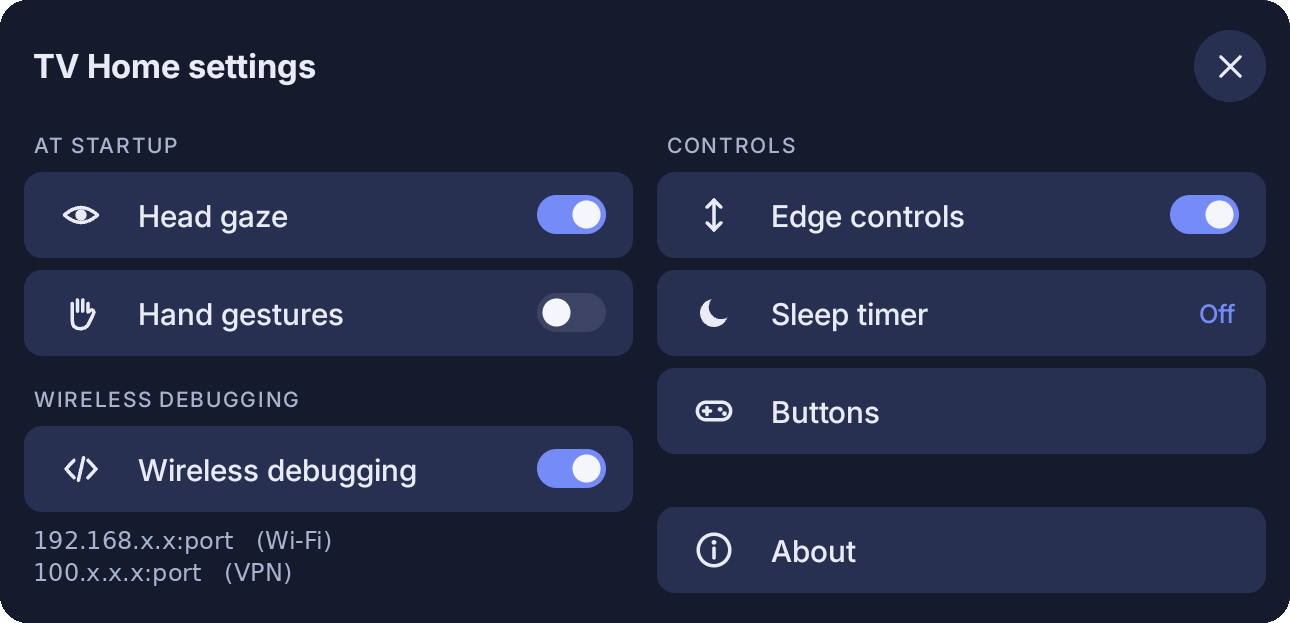
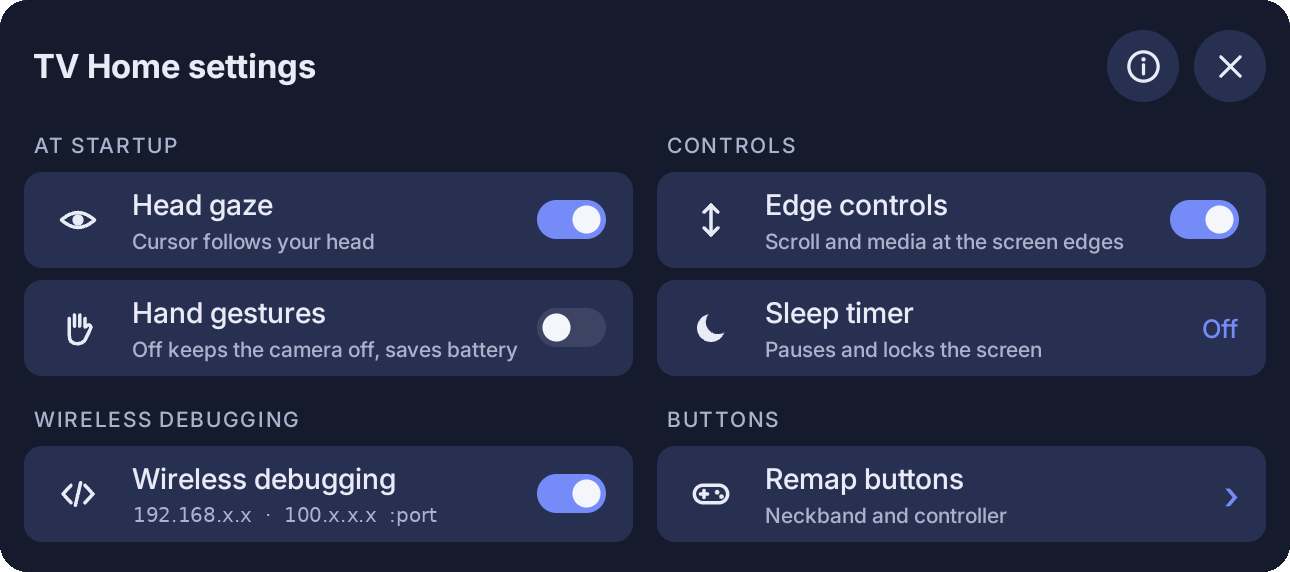
TV Home settings: strict two-column grid, About in the header
Every row has a title and a subtitle and the same height; each column has
two sections of equal height. The debugging addresses are the subtitle of
the Wireless debugging row, with the port shown once.

Claude-Session: https://claude.ai/code/session_01VUf44TcDJLfxdnnXui99Bk

diff --git a/tvhome/src/com/hoang/vhome/ControlService.java b/tvhome/src/com/hoang/vhome/ControlService.java
@@ -400,11 +400,17 @@ public class ControlService extends AccessibilityService {
         t.setTypeface(Typeface.DEFAULT_BOLD);
         t.setPadding(dp(back ? 10 : 6), 0, 0, 0);
         head.addView(t, new LinearLayout.LayoutParams(0, LinearLayout.LayoutParams.WRAP_CONTENT, 1));
+        if (headerAbout) {
+            LinearLayout.LayoutParams al = new LinearLayout.LayoutParams(dp(48), dp(48));
+            al.setMarginEnd(dp(10));
+            head.addView(iconButton(Icon.INFO, v -> pageAbout()), al);
+        }
         head.addView(iconButton(Icon.CLOSE, v -> hidePopup()), new LinearLayout.LayoutParams(dp(48), dp(48)));
         body.addView(head, rowLp(LinearLayout.LayoutParams.MATCH_PARENT));
         target = body;
     }
 
+    private boolean headerAbout = false;   // the main page shows an About button next to Close
     private Runnable backTo;
     private void pageBack() { if (backTo != null) backTo.run(); }
 
@@ -442,71 +448,121 @@ public class ControlService extends AccessibilityService {
     }
 
     private void pageMain() {
+        headerAbout = true;
         openPopup("TV Home settings", false, 860);
+        headerAbout = false;
         backTo = null;
+        // a strict grid: each column has two sections of the same height, every row is the same height
         LinearLayout cols = new LinearLayout(this);
         cols.setOrientation(LinearLayout.HORIZONTAL);
         LinearLayout left = column(0), right = column(0);
-        cols.addView(left, new LinearLayout.LayoutParams(0, LinearLayout.LayoutParams.MATCH_PARENT, 1));
-        LinearLayout.LayoutParams rp = new LinearLayout.LayoutParams(0, LinearLayout.LayoutParams.MATCH_PARENT, 1);
+        cols.addView(left, new LinearLayout.LayoutParams(0, LinearLayout.LayoutParams.WRAP_CONTENT, 1));
+        LinearLayout.LayoutParams rp = new LinearLayout.LayoutParams(0, LinearLayout.LayoutParams.WRAP_CONTENT, 1);
         rp.setMarginStart(dp(16));
-        cols.addView(right, rp);   // both columns as tall as the taller one
+        cols.addView(right, rp);
         target.addView(cols);
 
-        // left: what happens at startup, then Wireless debugging
         target = left;
         section("At startup");
-        target.addView(switchRow(Icon.GAZE_ON, "Head gaze", Prefs.getInt(this, Prefs.BOOT_GAZE, 1) == 1, on -> {
-            Prefs.putInt(this, Prefs.BOOT_GAZE, on ? 1 : 0); return on; }), rowLp(LinearLayout.LayoutParams.MATCH_PARENT));
+        target.addView(cell(Icon.GAZE_ON, "Head gaze", "Cursor follows your head", toggle(Prefs.getInt(this, Prefs.BOOT_GAZE, 1) == 1, on -> {
+            Prefs.putInt(this, Prefs.BOOT_GAZE, on ? 1 : 0); return on; })), cellLp());
         // On = Viture's default (hand gestures allowed). Off = gesture camera off now and after every restart.
-        target.addView(switchRow(Icon.HAND, "Hand gestures", Prefs.getInt(this, BootReceiver.GESTURES_OFF_FLAG, 0) == 0, on -> {
+        target.addView(cell(Icon.HAND, "Hand gestures", "Off keeps the camera off, saves battery", toggle(Prefs.getInt(this, BootReceiver.GESTURES_OFF_FLAG, 0) == 0, on -> {
             Prefs.putInt(this, BootReceiver.GESTURES_OFF_FLAG, on ? 0 : 1);
             Prefs.putInt(this, BootReceiver.GESTURES, on ? 1 : 0);
-            return on; }), rowLp(LinearLayout.LayoutParams.MATCH_PARENT));
+            return on; })), cellLp());
         section("Wireless debugging");
-        target.addView(switchRow(Icon.DEBUG, "Wireless debugging", Net.adbWifiOn(this), on -> {
+        LinearLayout adb = cell(Icon.DEBUG, "Wireless debugging", adbText(), toggle(Net.adbWifiOn(this), on -> {
             Net.setAdbWifi(this, on);
             portTried = false;
             if (on) h.postDelayed(this::readPortBehind, 2500);   // the port exists a moment after switching on
-            return Net.adbWifiOn(this); }), rowLp(LinearLayout.LayoutParams.MATCH_PARENT));
-        adbLine = note(adbText());
+            return Net.adbWifiOn(this); }));
+        adbLine = subtitleOf(adb);
+        adbLine.setAutoSizeTextTypeUniformWithConfiguration(10, 14, 1, android.util.TypedValue.COMPLEX_UNIT_SP);   // shrink rather than cut
+        target.addView(adb, cellLp());
         h.removeCallbacks(refreshAdb);
         h.post(refreshAdb);
         if (Net.adbWifiOn(this) && Net.adbPort() == 0 && !portTried) h.postDelayed(this::readPortBehind, 300);
 
-        // right: controls, then About at the bottom
         target = right;
         section("Controls");
-        target.addView(switchRow(Icon.SCROLL, "Edge controls", Prefs.getInt(this, Prefs.EDGE, 1) == 1, on -> {
+        target.addView(cell(Icon.SCROLL, "Edge controls", "Scroll and media at the screen edges", toggle(Prefs.getInt(this, Prefs.EDGE, 1) == 1, on -> {
             Prefs.putInt(this, Prefs.EDGE, on ? 1 : 0);
             if (on) edge.start(); else edge.stop();
-            return on; }), rowLp(LinearLayout.LayoutParams.MATCH_PARENT));
-        final TextView[] sleepValue = new TextView[1];
-        LinearLayout sleep = inlineRow(Icon.TIMER, "Sleep timer", sleepLabel(), v -> {
+            return on; })), cellLp());
+        TextView sleepValue = text(sleepLabel(), 17, ACCENT);
+        LinearLayout sleep = cell(Icon.TIMER, "Sleep timer", "Pauses and locks the screen", sleepValue);
+        sleep.setOnClickListener(v -> {
             int cur = 0;   // cycle Off, 15, 30, 60, 90 minutes
             for (int i = 0; i < SLEEP_MIN.length; i++) if (sleepAt > 0 && sleepLeftMin() <= SLEEP_MIN[i]) { cur = i; break; }
             int next = sleepAt == 0 ? 1 : (cur + 1) % SLEEP_MIN.length;
             setSleep(SLEEP_MIN[next]);
-            sleepValue[0].setText(sleepLabel());
+            sleepValue.setText(sleepLabel());
         });
-        sleepValue[0] = (TextView) sleep.getChildAt(1);
-        target.addView(sleep, rowLp(LinearLayout.LayoutParams.MATCH_PARENT));
-        target.addView(row(Icon.BUTTONS, "Buttons", false, v -> pageButtons()), rowLp(LinearLayout.LayoutParams.MATCH_PARENT));
-        target.addView(new View(this), new LinearLayout.LayoutParams(LinearLayout.LayoutParams.MATCH_PARENT, 0, 1));
-        target.addView(row(Icon.INFO, "About", false, v -> pageAbout()), rowLp(LinearLayout.LayoutParams.MATCH_PARENT));
+        target.addView(sleep, cellLp());
+        section("Buttons");
+        LinearLayout buttons = cell(Icon.BUTTONS, "Remap buttons", "Neckband and controller", text("\u203a", 26, ACCENT));
+        buttons.setOnClickListener(v -> pageButtons());
+        target.addView(buttons, cellLp());
+    }
+
+    interface Toggler { boolean set(boolean on); }
+
+    /** A switch for a cell; the whole cell toggles it. */
+    private Toggle toggle(boolean on, Toggler t) {
+        Toggle tg = new Toggle(this, on);
+        tg.setTag(t);
+        return tg;
+    }
+
+    /** One grid cell: icon, title and a one-line subtitle on the left, a switch or value on the right. */
+    private LinearLayout cell(int icon, String title, String subtitle, View right) {
+        LinearLayout r = new LinearLayout(this);
+        r.setOrientation(LinearLayout.HORIZONTAL);
+        r.setGravity(Gravity.CENTER_VERTICAL);
+        r.setBackground(round(BUTTON, dp(12)));
+        r.setPaddingRelative(dp(22), 0, dp(18), 0);
+        View ic = new EdgeControls.IconView(this, icon, 28);
+        r.addView(ic, new LinearLayout.LayoutParams(dp(28), dp(28)));
+        LinearLayout texts = new LinearLayout(this);
+        texts.setOrientation(LinearLayout.VERTICAL);
+        texts.setPaddingRelative(dp(22), 0, dp(10), 0);
+        TextView t = text(title, 19, FG);
+        t.setSingleLine(true);
+        TextView sub = text(subtitle, 14, DIM);
+        sub.setSingleLine(true);
+        sub.setEllipsize(android.text.TextUtils.TruncateAt.END);
+        texts.addView(t); texts.addView(sub);
+        r.addView(texts, new LinearLayout.LayoutParams(0, LinearLayout.LayoutParams.WRAP_CONTENT, 1));
+        if (right instanceof Toggle) {
+            r.addView(right, new LinearLayout.LayoutParams(dp(46), dp(26)));
+            final Toggle tg = (Toggle) right;
+            final boolean[] state = {tg.isOn()};
+            r.setOnClickListener(v -> { state[0] = ((Toggler) tg.getTag()).set(!state[0]); tg.set(state[0]); });
+        } else if (right != null) r.addView(right);
+        return r;
+    }
+
+    private TextView subtitleOf(LinearLayout cell) { return (TextView) ((LinearLayout) cell.getChildAt(1)).getChildAt(1); }
+
+    private LinearLayout.LayoutParams cellLp() {
+        LinearLayout.LayoutParams lp = new LinearLayout.LayoutParams(LinearLayout.LayoutParams.MATCH_PARENT, dp(64));
+        lp.setMargins(0, dp(4), 0, dp(4));
+        return lp;
     }
 
     private String adbText() {
-        if (!Net.adbWifiOn(this)) return "Off. Leave it off when you are not using a computer.";
+        if (!Net.adbWifiOn(this)) return "Off";
         int port = Net.adbPort();
         List<String[]> ips = Net.addresses(this);
-        if (ips.isEmpty()) return "On, waiting for a network.";
+        if (ips.isEmpty()) return "Waiting for a network";
         StringBuilder sb = new StringBuilder();
-        for (String[] ip : ips) {
-            if (sb.length() > 0) sb.append('\n');
-            sb.append(ip[1]).append(port > 0 ? ":" + port : "").append("   (").append(ip[0]).append(')');
+        for (String[] ip : ips) {   // the port is the same on every address: show it once
+            if (sb.length() > 0) sb.append("  \u00b7  ");
+            sb.append(ip[1]);
         }
-        if (port == 0) sb.append(fetching ? "\nReading the port\u2026" : "\nPort: Settings \u203a System \u203a Developer options \u203a Wireless debugging");
+        if (port > 0) sb.append("  :").append(port);
+        else if (fetching) sb.append("  reading port\u2026");
         return sb.toString();
     }
 

diff --git a/tvhome/src/com/hoang/vhome/Toggle.java b/tvhome/src/com/hoang/vhome/Toggle.java
@@ -15,6 +15,7 @@ final class Toggle extends View {
     Toggle(Context c, boolean on) { super(c); this.on = on; setClickable(false); setFocusable(false); }
 
     void set(boolean v) { on = v; invalidate(); }
+    boolean isOn() { return on; }
 
     @Override protected void onDraw(Canvas c) {
         float w = getWidth(), h = getHeight(), rad = h / 2f;

diff --git a/README.md b/README.md
@@ -380,12 +380,12 @@ The panel stays open until you **click outside it**, **click the ☰ button agai
 |---|---|
 | **At startup: Head gaze** | On by default. Switch it off if you prefer to start without head tracking |
 | **At startup: Hand gestures** | On is Viture's default. Off switches the gesture camera off at once and keeps it off after every restart, the biggest single battery saving (the same flag `apply gestures` sets) |
-| **Wireless debugging** | Switches it on or off now, and lists the neckband's addresses (Wi-Fi and VPN, such as Tailscale) with the port. Android does not let apps read the port, so TV Home briefly opens the system Wireless debugging page behind the popup, reads its "IP address & Port" line and steps back. It also picks the port up whenever you open that page yourself |
+| **Wireless debugging** | Switches it on or off now; the line below shows the neckband's addresses (Wi-Fi first, then VPN such as Tailscale) and the port. Android does not let apps read the port, so TV Home briefly opens the system Wireless debugging page behind the popup, reads its "IP address & Port" line and steps back. It also picks the port up whenever you open that page yourself |
 | *(advanced)* Wireless debugging after the next restart | `adb shell settings put global vnd_adb_next_boot 1` before rebooting: TV Home turns it on once after the restart and shows the new address and port on screen |
-| **Edge controls** | On by default; see below |
-| **Sleep timer** | Off by default. Each click steps through 15, 30, 60 and 90 minutes and back to Off. When time is up, playback pauses and the screen locks, so the glasses go dark. While it runs, the ☰ panel shows the time left with a one-click cancel. It does not survive a restart |
-| **Buttons** | Remap buttons (below) |
-| **About** | Version, licence, and a link to this repository |
+| **Controls: Edge controls** | On by default; see below |
+| **Controls: Sleep timer** | Off by default. Each click steps through 15, 30, 60 and 90 minutes and back to Off. When time is up, playback pauses and the screen locks, so the glasses go dark. While it runs, the ☰ panel shows the time left with a one-click cancel. It does not survive a restart |
+| **Buttons: Remap buttons** | See below |
+| **ⓘ** (top right) | About: version, licence, and a link to this repository |
 
 Back closes the popup, or returns to the previous page inside it. The panel and the popup also close when the app behind them changes screen, so they never stay on top of something else.
 
